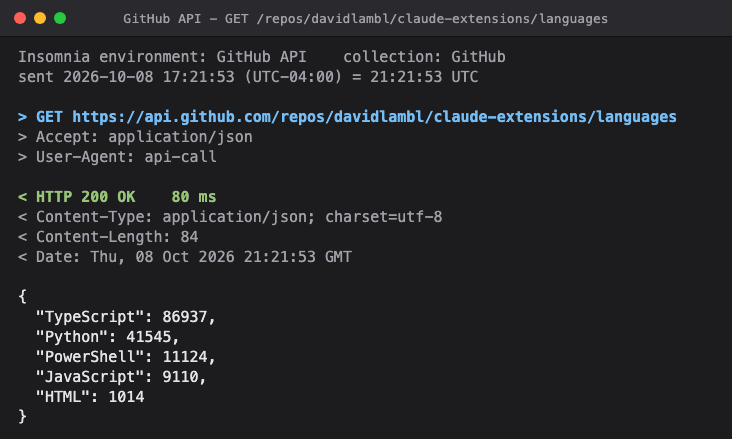
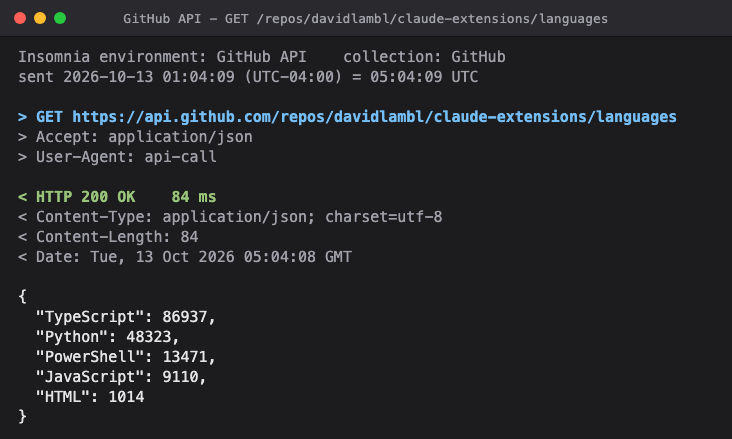
Document the final rule's edges, retake the demo images, and stop cleanly on a hung source
- SECURITY.md and the api-call README and SKILL.md describe the last
  round's behaviour (configuration that matches a secret is masked, not
  refused; standard headers are not secrets; the generic error for a base
  URL holding credentials) and list the remaining edges as known limits.
- The CHANGELOG entry for api-call 0.2.6 covers every change.
- The three demo images are retaken from the README commands as written.
- call.py reports a source that does not finish in one line instead of a
  traceback, and shows none of its unchecked partial output.

Tests: api-call 256, ado-evidence 54, context-bar 100; every CI step
passes locally.

Claude-Session: https://claude.ai/code/session_01RRQNu8KybTM94LYvT61M9Z

diff --git a/skills/api-call/tests/test_call.py b/skills/api-call/tests/test_call.py
@@ -273,5 +273,24 @@ class CallPyOverTheNetwork(unittest.TestCase):
             self.assertEqual(json.loads(record["body"])["args"]["note"], "line\u2028two")
 
 
+
+class SourceTimeout(unittest.TestCase):
+    """A source that does not finish is stopped and reported in one line, never with a traceback or its partial output."""
+
+    def test_a_source_that_hangs_is_reported_without_a_traceback(self):
+        import runpy
+        from unittest import mock
+        script = Path(__file__).resolve().parents[1] / "skills" / "api-call" / "scripts" / "call.py"
+        with tempfile.TemporaryDirectory() as tmp:
+            argv = [str(script), "--via", "postman", "--env", "e.json", "--collection", "c.json", "--out", tmp,
+                    "--name", "step", "--timeout", "5", "GET", "/x"]
+            hang = subprocess.TimeoutExpired(cmd="source", timeout=125, output="partial FAKE-secret-123456")
+            with mock.patch.object(sys, "argv", argv), mock.patch("subprocess.run", side_effect=hang):
+                with self.assertRaises(SystemExit) as stop:
+                    runpy.run_path(str(script), run_name="__main__")
+        message = str(stop.exception.code)
+        self.assertIn("did not finish within 125 seconds", message)
+        self.assertNotIn("FAKE-secret", message)
+
 if __name__ == "__main__":
     unittest.main()

diff --git a/skills/api-call/skills/api-call/scripts/call.py b/skills/api-call/skills/api-call/scripts/call.py
@@ -104,8 +104,13 @@ def last_line(text):
 def call():
     # NO_COLOR keeps a source's error text plain. PYTHONIOENCODING has a Python source write the UTF-8 read here, where
     # Windows would give a pipe its ANSI code page.
-    proc = subprocess.run(source_argv(), capture_output=True, text=True, encoding="utf-8", timeout=args.timeout + 120,
-                          env={**os.environ, "NO_COLOR": "1", "PYTHONIOENCODING": "utf-8"})
+    limit = args.timeout + 120
+    try:
+        proc = subprocess.run(source_argv(), capture_output=True, text=True, encoding="utf-8", timeout=limit,
+                              env={**os.environ, "NO_COLOR": "1", "PYTHONIOENCODING": "utf-8"})
+    except subprocess.TimeoutExpired:
+        # What the source printed before it was stopped is not shown: it has not been through the source's own check.
+        sys.exit(f"the {args.via} source did not finish within {limit} seconds and was stopped; nothing was recorded")
     if proc.returncode != 0:
         sys.exit(f"the {args.via} source failed:\n{(proc.stderr or proc.stdout).strip()[-1500:]}")
     line = last_line(proc.stdout)

diff --git a/skills/api-call/README.md b/skills/api-call/README.md
@@ -18,14 +18,14 @@ One JSON object per call, and the interface between a source and whatever reads 
 | --- | --- |
 | `source` | `insomnia` or `postman` |
 | `environment`, `collection`, `folder` | the names resolved from; `folder` is the top-level folder named with `--folder`, or else the one whose auth was used, or null. A Postman folder named with `--folder` that has no auth of its own uses the collection's. |
-| `method`, `path` | `GET`, and the path as given, with a doubled leading slash reduced to one |
-| `url` | the URL as sent, with a space or a character outside ASCII percent-encoded, and an API key in the query shown as `********`. The host, the path and the rest of the base URL show as resolved. The base URL's userinfo is put back with its password as `********`, and its user too when it has no password, since that user is the credential. The Insomnia source shows the URL as .NET sends it, with the host in lower case and a default port dropped. |
-| `auth` | `none`, `API key in header <name>`, `API key in query parameter <name>`, `API key in cookie <name>`, `bearer token`, `basic auth as <user>` or `basic auth from the base URL as <user>`. A user that goes with no password is the credential and shows as `********`. The Insomnia source writes `basic auth from the base URL, with an empty user` for `https://:password@host`. With an API key and credentials in the base URL, it names both, joined by `, and`. |
-| `request_headers` | the headers as sent, their names as resolved. A value that came from the auth, or a header value with a template in it, shows as `********`, an API key in a cookie as `<name>=********`, and credentials from the base URL as `Basic ********`. The Insomnia source neither sends nor lists a content header such as `Content-Type`, which has nowhere to go on a GET. |
+| `method`, `path` | `GET`, and the path as given, with a doubled leading slash reduced to one. The Insomnia source shows a secret in it as `********`. The Postman source refuses a record whose path holds one. |
+| `url` | the URL as sent, with a space or a character outside ASCII percent-encoded, and an API key in the query shown as `********`. The host, the path and the rest of the base URL show as resolved. The base URL's userinfo is put back with its password as `********`, and its user too when it has no password, since that user is the credential. A secret that is also part of the base URL shows there as `********`, such as a tenant id that a credential carries too. The Insomnia source shows the URL as .NET sends it, with the host in lower case and a default port dropped. |
+| `auth` | `none`, `API key in header <name>`, `API key in query parameter <name>`, `API key in cookie <name>`, `bearer token`, `basic auth as <user>` or `basic auth from the base URL as <user>`. A user that goes with no password is the credential and shows as `********`. Both sources write `basic auth from the base URL, with an empty user` for `https://:password@host`, and the Postman source writes `basic auth, with an empty user` for basic auth with no username. A secret in it shows as `********`. With an API key and credentials in the base URL, it names both, joined by `, and`. |
+| `request_headers` | the headers as sent, their names as resolved. A value that came from the auth, or a header value with a template in it, shows as `********`, an API key in a cookie as `<name>=********`, and credentials from the base URL as `Basic ********`. A templated value of a standard header that never carries a credential, such as `Accept`, shows as resolved. The Insomnia source neither sends nor lists a content header such as `Content-Type`, which has nowhere to go on a GET. |
 | `client_cert` | the client certificate's file name, or null |
 | `status`, `elapsed_ms` | the response's status, and how long it took |
 | `sent`, `sent_utc` | when it was sent, as ISO 8601 with milliseconds, in local time with its offset and in UTC, whatever the machine's regional format |
-| `response_headers` | `Content-Type`, `Content-Length`, `Date` and `Location`, where present |
+| `response_headers` | `Content-Type`, `Content-Length`, `Date` and `Location`, where present. The Insomnia source records them as .NET reads them, which puts a `Location` host in lower case. |
 | `body` | the response body as text |
 
 `call.py` adds `label`, `expected` and `verdict` (`PASS`, `FAIL` or null), and with `--shot` the image's path as `png`.
@@ -84,10 +84,10 @@ python3 skills/api-call/scripts/render.py shots/widget.json --title "After: Test
 | `--warm` | Sends once untimed first, so a cold start does not show in the timing. |
 | `--shot` | Draws the exchange and captures it as `<name>.png`, with its `.html` page beside it. The record is written first, so if the capture fails the record is kept, without `png`, and the script exits 1 with a message naming the record and the status. |
 | `--label TEXT` | Leads the image's title, such as `After: Test`; the environment's name otherwise. |
-| `--folder NAME` | The collection's top-level folder that carries the auth, when more than one does. |
+| `--folder NAME` | The collection's top-level folder that carries the auth, when more than one does. The Insomnia source uses a folder's environment and headers only when it carries auth or is named here. |
 | `--base-url-var NAME` | The variable holding the base URL, when it is not `baseUrl`. Variable names are case-sensitive. When the one named is not defined, the one variable whose name matches it ignoring case is used, such as `baseURL`; with two or more, the message names them. The Insomnia source does this only for `baseUrl`. |
-| `--timeout SECONDS` | How long to wait for the response; 60 by default. |
-| `--vars FILE.json` | Postman: a flat object of values laid over the environment, for secrets kept out of the export. Every value in it is a secret wherever it is used, and so is an environment value typed secret. In the base URL or a key's name, such a value shows as `********`, and the record is refused if a response echoes it. |
+| `--timeout SECONDS` | How long to wait for the response; 60 by default. The Postman source bounds each socket read with it, not the whole response. |
+| `--vars FILE.json` | Postman: a flat object of values laid over the environment, for secrets kept out of the export. Every value in it is a secret wherever it is used, and so is an environment value typed secret. In the base URL or a key's name, such a value shows as `********`, and the record is refused if a response echoes it. Every call sends `Accept: application/json` and `User-Agent: api-call`, so a value equal to one of those names or values refuses every call. |
 | `--cert PEM --key PEM` | Postman: a client certificate; `API_CALL_KEY_PASSPHRASE` unlocks an encrypted key. Insomnia's certificates come from the collection. |
 
 `INSOMNIA_DATA` points at Insomnia's data folder when it is not in the usual place. Exit codes: 0 for a call that returned, 3 for a status that did not match `--expect`, 2 for a command line it could not parse, such as a missing argument or an `--expect` that is not a number, and 1 for anything else that stopped the call or its screenshot.
@@ -99,14 +99,14 @@ A before-and-after pair is two runs of the same step, one per environment, each 
 ## What it costs and touches
 
 - **It sends real requests** to the environments you name, GET only. Pointed at production, it calls production: choose inputs that return test data, never a customer's.
-- **The images show the response body exactly as returned.** A JSON body is only re-indented, every string, number and literal copied as written. Invisible, format, bidi and non-ASCII space characters are drawn as `\uXXXX` escapes. Every row runs left to right in the order its characters are written, is clipped to its own height, and ends in an ellipsis where it is too long for the window. A body of nothing at all is drawn as `(empty body)`, and one of line breaks alone as their escapes. Look at each image before you share it.
-- **Secrets stay in the source's process.** Keys, tokens and certificate passphrases are never printed, written or drawn, and a client certificate appears by file name only. A secret is a value in a credential position: an API key's value, a bearer token, a basic-auth password, a header value with a template in it, and a password in the base URL. A user that goes with no password, as in `https://TOKEN@host`, is the credential too. Each counts with every value substituted into it, at any depth. Every value in a `--vars` file is a secret wherever it is used.
-- **Configuration is shown.** Hosts, ports, paths and the rest of the base URL, header names, an API key's name, the bearer prefix, a user beside a password, and the environment, collection and folder names show as resolved. A response that echoes one is printed, never refused.
+- **The images show the response body exactly as returned.** A JSON body is only re-indented, every string, number and literal copied as written. Invisible, format, bidi and non-ASCII space characters are drawn as `\uXXXX` escapes, and so are U+2800 and U+FFFC, which draw as a space. Every row runs left to right in the order its characters are written, is clipped to its own height, and ends in an ellipsis where it is too long for the window. A body of nothing at all is drawn as `(empty body)`, and one of line breaks alone as their escapes. Trailing spaces on a text line or a header value cannot be seen, a literal `\uXXXX` in a text body reads the same as an escaped character, and a line that really ends in `...` looks like one cut short. Look at each image before you share it.
+- **Secrets stay in the source's process.** Keys, tokens and certificate passphrases are never printed, written or drawn, and a client certificate appears by file name only. A secret is a value in a credential position: an API key's value, a bearer token, a basic-auth password, a header value with a template in it, and a password in the base URL. A user that goes with no password, as in `https://TOKEN@host`, is the credential too. Each counts with every value substituted into it, at any depth. Every value in a `--vars` file is a secret wherever it is used. A templated value of a standard header that never carries a credential is configuration, not a secret: `Accept`, `Accept-Charset`, `Accept-Encoding`, `Accept-Language`, `Cache-Control`, `Connection`, `Content-Language`, `Content-Length`, `Content-Type`, `Host`, `Origin`, `Pragma`, `Referer`, `User-Agent`, `X-Forwarded-For`, `X-Forwarded-Host`, `X-Forwarded-Proto` and `X-Requested-With`, in any letter case.
+- **Configuration is shown.** Hosts, ports, paths and the rest of the base URL, header names, an API key's name, the bearer prefix, a user beside a password, and the environment, collection and folder names show as resolved. A response that echoes one is printed, never refused. A secret that is also part of this configuration, such as a tenant id a credential carries too, shows there as `********` instead of refusing every call. A response that echoes it is still refused. The Postman source does not mask one in the typed path, and refuses the record.
 - **A key goes in the auth, not in the base URL.** A key written into the base URL's path or query, such as an Azure Functions `?code=`, is part of the URL to the script. It shows in the record and the image, and a response that echoes it is printed. Put it in the folder's or the collection's auth, as an API key in a query parameter.
-- **A source refuses to print anything that would contain a secret.** It looks for each secret in its own letter case, as is, trimmed of surrounding whitespace, percent-encoded, JSON-escaped or as HTML character references. A secret encoded twice is not looked for. A value under six characters is too short to tell from ordinary text and is not checked for. A failed request's error has every secret in it masked, and is withheld whole if one would still show. A folder header whose value is typed in, not templated, is not a secret to the script and is drawn as typed, so keep secrets in environment variables. A Postman key outside ASCII is sent as its Latin-1 bytes, and an echo of those bytes percent-encoded is not looked for, so keep keys ASCII.
+- **A source refuses to print anything that would contain a secret.** It looks for each secret in its own letter case, as is, trimmed of surrounding whitespace, percent-encoded, JSON-escaped or as HTML character references. A secret encoded twice is not looked for. A value under six characters is too short to tell from ordinary text and is not checked for. An error message still masks it, which can garble a word around it. A failed request's error has every secret in it masked, and is withheld whole if one would still show. When the base URL holds an `@` after its scheme, a failed request says only `the request failed: the base URL holds credentials that could not be parsed or reached; percent-encode any / ? # or @ in its user or password`, and quotes no part of the URL or its host. Percent-encode a user or password there: an unencoded `/`, `?` or `#` in one ends the host early, so the request goes to a host made of part of the credential, and the record shows it. A folder header whose value is typed in, not templated, is not a secret to the script and is drawn as typed, so keep secrets in environment variables. A Postman key outside ASCII is sent as its Latin-1 bytes, and an echo of those bytes percent-encoded is not looked for, so keep keys ASCII. A body whose declared charset does not match its bytes is drawn garbled, and a secret echoed inside it may not be found.
 - **A malformed header or an empty credential stops the call before anything is sent.** A header whose name or value holds a line break, such as the newline at the end of a pasted key, is refused, so a shared collection cannot add headers or a second request. So is an Insomnia API key cookie whose name or value would split it into two cookies. An API key or bearer token that resolves to an empty value is refused too. From Postman it usually means a secret kept out of the export and no `--vars` file; from Insomnia, an empty variable or a sub-environment not chosen. A Postman basic password typed blank beside a username is sent, for an API that takes the key as the user, as `curl -u key:` does. A templated one that resolves empty is refused. No message quotes the value.
 - **A redirect is recorded, never followed.** A 3xx is the response, with its `Location` header, so a key is sent only to the host the collection named.
-- **It reads Insomnia's files and Postman's exports, and never writes them.** Insomnia: global environments and their sub-environments, and the top-level folder's own environment. `{{ name }}`, `{{ _.name }}` and `{{ _['name'] }}` templates; a value that names its own variable, as `{{ baseUrl }}/v2`, extends the one beneath it, resolved after the rest of its layer in the file's order. API key and bearer auth on a top-level folder, with the key in a header, a query parameter or a cookie; a folder set to No Auth counts as none. PFX and PEM client certificates, matched to the host by name and by port, 443 when none is given. Postman: collection exports in schema v2.1 or v2.0, and another schema is refused by name. Collection and environment variables, and `{{name}}` templates. API key, bearer and basic auth on the collection or a top-level folder; a folder with no auth of its own inherits the collection's, as in Postman. PEM client certificates. In both: variable names are case-sensitive, as in the apps. A template may nest five levels deep, and a value may resolve to 65536 characters; past either, or on a cycle of variables, the call stops before anything is sent, with a message that never quotes the value. A user and password in the base URL go as basic auth, as the Insomnia and Postman apps send them, unless the auth sets `Authorization`. Not supported: Nunjucks tags such as `{% response %}`, Postman's dynamic variables such as `{{$guid}}` and scripts, request-level auth, Insomnia's collection environments.
+- **It reads Insomnia's files and Postman's exports, and never writes them.** Insomnia: global environments and their sub-environments, and the top-level folder's own environment. A global environment whose name holds a `/` cannot be chosen, since `--env` reads `Name/Sub-environment`. `{{ name }}`, `{{ _.name }}` and `{{ _['name'] }}` templates; a value that names its own variable, as `{{ baseUrl }}/v2`, extends the one beneath it, resolved after the rest of its layer in the file's order. API key and bearer auth on a top-level folder, with the key in a header, a query parameter or a cookie; a folder set to No Auth counts as none. PFX and PEM client certificates, matched to the host by name and by port, 443 when none is given. Postman: collection exports in schema v2.1 or v2.0, and another schema is refused by name. Collection and environment variables, and `{{name}}` templates. API key, bearer and basic auth on the collection or a top-level folder; a folder with no auth of its own inherits the collection's, as in Postman. PEM client certificates. In both: variable names are case-sensitive, as in the apps. A template may nest five levels deep, and a value may resolve to 65536 characters; past either, or on a cycle of variables, the call stops before anything is sent, with a message that never quotes the value. A user and password in the base URL go as basic auth, as the Insomnia and Postman apps send them, unless the auth sets `Authorization`. Not supported: Nunjucks tags such as `{% response %}`, Postman's dynamic variables such as `{{$guid}}` and scripts, request-level auth, Insomnia's collection environments.
 - **Each image is written with its `.html` page, and each call with its `.json` record**, secrets excluded. The record is ASCII-escaped JSON, so no invisible character a response carried can hide in it.
 
 ## Dependencies

diff --git a/SECURITY.md b/SECURITY.md
@@ -25,12 +25,14 @@ They run on your machine, with your access. That is the point of them, and it is
 These are the properties a bug report should test against:
 
 - A key, token or certificate passphrase is never printed, written or drawn. Each api-call source keeps secrets inside its own process and masks them in the record it prints. It refuses to print at all when a secret would appear in its output, and then `call.py` writes nothing.
-- A secret is a value in a credential position. That is an API key's value, in a header, a query parameter or a cookie; a bearer token; a basic-auth password and the basic token; any header value with a template in it; a client certificate's passphrase; and a password in the base URL's userinfo. A user that goes with no password is the credential too: a basic-auth user with a blank password, or a userinfo user alone, as in `https://TOKEN@host`, which is how GitHub takes a token. Each counts with every part substituted into it, at every depth. Every value in a `--vars` file, and every Postman environment value typed secret, is a secret wherever it lands.
+- A secret is a value in a credential position. That is an API key's value, in a header, a query parameter or a cookie; a bearer token; a basic-auth password and the basic token; any header value with a template in it, save for the standard headers below; a client certificate's passphrase; and a password in the base URL's userinfo. A user that goes with no password is the credential too: a basic-auth user with a blank password, or a userinfo user alone, as in `https://TOKEN@host`, which is how GitHub takes a token. Each counts with every part substituted into it, at every depth. Every value in a `--vars` file, and every Postman environment value typed secret, is a secret wherever it lands.
 - Everything else is configuration, shown as resolved and never refused for being echoed. That covers hosts, ports, paths and the rest of the base URL, header names, an API key's name, the bearer prefix, a basic-auth user that has a password, and the environment, collection and folder names.
+- Only the Insomnia source reads a collection's headers. A templated value of a standard header that never carries a credential is configuration, not a secret: `Accept`, `Accept-Charset`, `Accept-Encoding`, `Accept-Language`, `Cache-Control`, `Connection`, `Content-Language`, `Content-Length`, `Content-Type`, `Host`, `Origin`, `Pragma`, `Referer`, `User-Agent`, `X-Forwarded-For`, `X-Forwarded-Host`, `X-Forwarded-Proto` and `X-Requested-With`, in any letter case. Every other templated header value is a secret.
+- A secret that is also part of the configuration a record shows is masked there, not refused. The Insomnia source masks it in the record's `url`, `path` and `auth`, as for a tenant id sent in a templated header and named in the base URL. The Postman source masks it in the base URL, a key's name and a basic-auth user, and refuses a record whose typed path holds one. A response that echoes it is still refused.
 - A password in the base URL is masked in the record's url by its place in the text, so nothing a template puts in the scheme, host or port can make it show.
 - A secret is looked for in its own letter case, in one layer of encoding: as is, trimmed of surrounding whitespace, percent-encoded, JSON-escaped, or as HTML character references.
-- A failed request's error is scrubbed before it is shown. Every secret in it is masked, as is, trimmed and percent-encoded, and if one would still show, the message is withheld whole.
-- The image draws the body exactly as the API returned it, so a secret can show there only in a form the sources look for. A JSON body is only re-indented, every string, number and literal copied as written. Every invisible, format, bidi and non-ASCII space character is drawn as its `\uXXXX` escape. Each row is clipped to its own height and cut with an ellipsis where it is too long, and every row runs left to right in the order its characters are written. The sources also check the body with its escapes decoded; that is defense in depth, not a description of the image.
+- A failed request's error is scrubbed before it is shown. Every secret in it is masked, as is, trimmed and percent-encoded, and if one would still show, the message is withheld whole. When the base URL holds an `@` after its scheme, a failed request prints `the request failed: the base URL holds credentials that could not be parsed or reached; percent-encode any / ? # or @ in its user or password` instead, and quotes no part of the URL or its host.
+- The image draws the body exactly as the API returned it, so a secret can show there only in a form the sources look for. A JSON body is only re-indented, every string, number and literal copied as written. Every invisible, format, bidi and non-ASCII space character is drawn as its `\uXXXX` escape, and so is each other character that draws as a space: the blank Braille pattern U+2800 and the object replacement character U+FFFC. Each row is clipped to its own height and cut with an ellipsis where it is too long, and every row runs left to right in the order its characters are written. The sources also check the body with its escapes decoded; that is defense in depth, not a description of the image.
 - The record file is ASCII-escaped JSON, so no invisible or bidi character can hide in it.
 - A collection cannot make a source resolve without end. Templates nest at most five levels deep, and a value resolves to at most 65536 characters. Past either, the call stops before anything is sent.
 - A shared collection cannot add headers or a second request to the GET. Each api-call source refuses a header whose name or value holds a line break, before anything is sent. The Insomnia source also refuses an API key cookie whose name or value would split it into two cookies.
@@ -45,10 +47,17 @@ These are the properties a bug report should test against:
 These are not bugs. They are the edges of the guarantees above.
 
 - **A key belongs in the auth, not in the base URL.** A key written into the base URL's path or query, such as an Azure Functions `?code=`, is configuration to api-call. It shows in the record and the image, and a response that echoes it is printed. Put it in the auth, as an API key in a query parameter.
-- **A literal header value is not a secret to api-call.** A collection header whose value is typed in rather than drawn from a variable is shown as typed. Keep secrets in environment variables.
-- **A value under six characters is not checked for.** It cannot be told apart from ordinary text in a response body.
-- **Matching is case-sensitive.** A server echoes a credential as it was sent, so a secret in another letter case is not looked for, and is printed.
+- **Percent-encode a user or password in the base URL.** An unencoded `/`, `?` or `#` in one ends the host early, so the request goes to a host made of part of the credential, and the record shows it. Only the error message is guarded.
+- **A literal header value is not a secret to api-call.** A collection header whose value is typed in rather than drawn from a variable is shown as typed. In the Insomnia source, a templated value of a standard header such as `Referer` is shown as resolved. Keep secrets in environment variables.
+- **The fixed request headers are checked like any other text.** Both sources send `Accept: application/json` and `User-Agent: api-call`, so a secret equal to one of those names or values, such as a `--vars` value of `application/json`, refuses every call.
+- **A value under six characters is not checked for.** It cannot be told apart from ordinary text in a response body. An error message still masks it, which can garble a word around it.
+- **Matching is case-sensitive.** A server echoes a credential as it was sent, so a secret in another letter case is not looked for, and is printed. The Insomnia source records response headers as .NET reads them, so a key carried in a redirect's `Location` host is compared, and can be printed, in lower case.
 - **One layer of encoding is looked for.** A secret encoded twice, such as percent-encoded twice or a JSON string inside a JSON string, is not found. Nor is one re-encoded in another charset: the Postman source sends a key outside ASCII as its Latin-1 bytes, and an echo of those bytes percent-encoded is printed, so keep keys ASCII. ado-evidence likewise does not mask a token encoded twice or split into pieces.
+- **A body is decoded by the charset it declares.** One whose bytes do not match that charset is drawn garbled, and a secret echoed inside it may not be found.
 - **The response body is drawn as returned.** Nothing redacts what the API sends back, so look at an image before you share it. Look-alike letters, such as a Cyrillic e in place of a Latin one, are drawn as sent.
+- **Some differences do not show in the image.** Trailing spaces on a text line or a header value cannot be seen, a literal `\uXXXX` in a text body reads the same as an escaped character, and a line that really ends in `...` looks like one cut short.
+- **The Insomnia source uses a top-level folder only when it carries auth or `--folder` names it.** Otherwise that folder's environment and headers do not apply.
+- **An Insomnia global environment whose name holds a `/` cannot be chosen.** `--env` reads `Name/Sub-environment`, so the text after the first `/` names a sub-environment.
+- **Postman's `--timeout` bounds each socket read, not the whole response.** A server that sends slowly can keep a call open past it.
 - **Posting acts as you.** Preview with `--dry-run` and approve the text before it goes up.
 - **An eval or screenshot run calls real endpoints and real models** with your credentials.

diff --git a/CHANGELOG.md b/CHANGELOG.md
@@ -49,10 +49,11 @@ Secret fixes. Earlier versions said a source never prints, writes or draws a sec
 
 In both sources:
 
-- A user and password in the base URL go as basic auth, as the Insomnia and Postman apps send them, unless the auth sets `Authorization`. The record's auth reads `basic auth from the base URL as <user>`.
+- A user and password in the base URL go as basic auth, as the Insomnia and Postman apps send them, unless the auth sets `Authorization`. The record's auth reads `basic auth from the base URL as <user>`, or `basic auth from the base URL, with an empty user` for `https://:password@host`.
 - An API key or bearer token that resolves to an empty value stops the call before anything is sent. A step meant to send a blank key for a 401 needs a folder set to No Auth instead.
 - A template nests at most five levels deep, and a value resolves to at most 65536 characters. A cycle, or a value past either limit, stops the call before anything is sent.
 - An error never names a variable found inside another variable's value, which may be a secret. It names the variable that holds it.
+- An unencoded `/`, `?` or `#` in the base URL's user or password ends its userinfo early, so no secret is found there, and an error could quote part of it as the host. When the base URL holds an `@` after its scheme, a failed request now prints `the request failed: the base URL holds credentials that could not be parsed or reached; percent-encode any / ? # or @ in its user or password`. It quotes no part of the URL or its host.
 
 In the Insomnia source:
 
@@ -67,16 +68,22 @@ In the Insomnia source:
 - ISO dates and booleans in Insomnia's data are sent as written.
 - `Content-Type` is no longer listed as sent on a GET, which carries no content. A header name .NET rejects is refused rather than dropped.
 - The environment, collection and folder names are labels, and no longer a reason to refuse a record.
+- A secret that also sits in the base URL, the typed path or the auth's text shows as `********` in the record's `url`, `path` and `auth`, instead of refusing every call. A tenant id sent in a templated header and named in the URL is one. A response that echoes it is still refused.
+- A templated value of a standard header that never carries a credential is shown as resolved and is not a secret. These are `Accept`, `Accept-Charset`, `Accept-Encoding`, `Accept-Language`, `Cache-Control`, `Connection`, `Content-Language`, `Content-Length`, `Content-Type`, `Host`, `Origin`, `Pragma`, `Referer`, `User-Agent`, `X-Forwarded-For`, `X-Forwarded-Host`, `X-Forwarded-Proto` and `X-Requested-With`, in any letter case. Every other templated header value is still a secret.
 
 In the Postman source:
 
 - Collection exports in schema v2.0 are read as well as v2.1, and another schema is refused by name.
 - A folder named with `--folder` that has no auth of its own takes the collection's, as in Postman.
 - A basic password typed blank beside a username is sent, for an API that takes the key as the user, as `curl -u key:` does. That user is then the credential, shown as `********`. A templated password that resolves to an empty value stops the call, since it usually means a `--vars` file is missing.
+- Basic auth with an empty user reads `basic auth, with an empty user`.
 - A `--vars` value, or an environment value typed secret, in the base URL or in a key's name shows there as `********`, where the record used to be refused.
+- Every value substituted into a base URL user with no password is a secret at every depth, as for a password. Each is found by where it was substituted, as the Insomnia source finds it.
+- The record's own fields and its labels are left out of the refusal check, as in the Insomnia source. The fields are `source`, `method`, `sent` and `sent_utc`, and the labels are the environment, collection and folder names. So a `--vars` value equal to today's date no longer refuses every call.
 - When the base URL variable is not defined, the one variable whose name matches it ignoring case is used, such as `baseURL`. With two or more, the message names them.
 - A path with a space or a character outside ASCII is sent percent-encoded, as Postman sends it.
-- An export saved with a byte order mark is read, and a byte order mark before a JSON body is dropped, so the body is still laid out as JSON.
+- An export saved with a byte order mark is read.
+- A body is read as the Insomnia source reads it: by its byte order mark, then by a declared charset Python knows, then as UTF-8. The byte order mark is dropped, so a JSON body after one is still laid out as JSON.
 - Output is UTF-8 on Windows.
 
 In `call.py` and `render.py`:
@@ -84,12 +91,14 @@ In `call.py` and `render.py`:
 - `call.py` writes the record before the screenshot, so a failed capture keeps it. The script exits 1 with a message naming the record.
 - `call.py` writes the record as ASCII-escaped JSON, so no invisible or bidi character a response carried can hide in the file.
 - `call.py` reads the source's record whatever line or paragraph separators the body holds.
+- `call.py` reports a source that does not finish in one line, with no traceback and none of the source's partial output.
 - `call.py` stops on a path Git Bash has rewritten into a Windows path, where setting `MSYS_NO_PATHCONV` inside `call.py` had no effect. It reads a doubled leading slash as one.
 - `render.py` takes a relative record or `--out` path.
 - `render.py` finds Edge on macOS and Linux.
 - `render.py` measures lines in display cells, so CJK, emoji and tab-indented lines end in `...` instead of being cut at the window's edge. A row the font draws wider than counted ends in an ellipsis at the edge, and so does a long title, instead of running under the window's buttons.
 - Every row and the title are drawn left to right in the order their characters are written, so right-to-left text cannot reorder the digits and punctuation around it.
 - Each row is clipped to its own height, so stacked combining marks cannot paint over another row.
+- `render.py` draws U+FFFC, the object replacement character, as its escape. Many fonts draw it as a space, so it joins the non-ASCII spaces and the blank Braille pattern U+2800, which are escaped too.
 - A `{{title}}` or `{{body}}` written in a label, a name or a body is drawn as text.
 - A text body loses only the empty lines at its start and end. Every other character is drawn, its indentation and trailing spaces included, with control characters and separators as escapes. A body of line breaks alone is drawn as their escapes, and only a body of zero length as `(empty body)`.
 - A body holding a lone surrogate escape, or JSON nested too deep for Python to parse, is drawn, where `--shot` used to fail.

diff --git a/skills/api-call/skills/api-call/SKILL.md b/skills/api-call/skills/api-call/SKILL.md
@@ -22,6 +22,7 @@ python3 <base>/scripts/call.py --via insomnia --env "API - Test" --collection "A
 
 - `--via postman` takes the export files instead: `--env "<dir>/API - Test.postman_environment.json" --collection "<dir>/API.postman_collection.json"`. Secrets kept out of the export go in a `--vars` file, where every value is a secret wherever it is used; a client certificate is `--cert` and `--key`, in PEM.
 - An API key or bearer token that resolves to an empty value stops the call before anything is sent. From Postman it usually means the `--vars` file is missing; from Insomnia, an empty variable or a sub-environment not chosen.
+- When the base URL holds an `@`, a failed call says only `the base URL holds credentials that could not be parsed or reached`, to quote none of it. Ask the user to check that its user and password are percent-encoded, and that the host is up.
 - `--expect` is the status the step should return. A mismatch exits 3; the record and the image are still written. Report a mismatch as a finding; never retake until it passes. A redirect is recorded as its 3xx, never followed.
 - `--warm` sends once untimed first, so a cold start after a deploy does not show in the timing.
 - `--label` leads the image's title, such as `"After: Test (this change)"`. For a before-and-after pair, run the step twice, once per environment, with a label for each.
@@ -32,7 +33,7 @@ python3 <base>/scripts/call.py --via insomnia --env "API - Test" --collection "A
 
 `<dir>/<name>.json` is the record: the source, environment and collection, the method and path, the URL and request headers as sent with every credential as `********`, the client certificate's file name, the status, how long it took, when it was sent, the response headers and the body. With `--shot`, `<dir>/<name>.png` draws the same, and the `.html` it was captured from sits beside it. The script prints one line of JSON with the status, the verdict and the file paths.
 
-A credential is an API key's value, a bearer token, a basic-auth password, a templated header value, or a password in the base URL, with every value substituted into it. A user that goes with no password, as in `https://TOKEN@host`, is one too. Hosts, paths, header names, key names and usernames beside a password are configuration, shown as resolved. So a key written into the base URL's path or query shows in the record and the image. A key belongs in the auth, as an API key in a query parameter. If a collection keeps one in the base URL, tell the user so.
+A credential is an API key's value, a bearer token, a basic-auth password, a templated header value other than a standard one such as `Accept` or `Content-Type`, or a password in the base URL, with every value substituted into it. A user that goes with no password, as in `https://TOKEN@host`, is one too. Hosts, paths, header names, key names and usernames beside a password are configuration, shown as resolved. So a key written into the base URL's path or query shows in the record and the image. A key belongs in the auth, as an API key in a query parameter. If a collection keeps one in the base URL, tell the user so.
 
 The record is written before the screenshot is taken. If the screenshot fails, `<name>.json` is still written, without `png`, and the script exits 1 with a message naming the record and the status.
 
